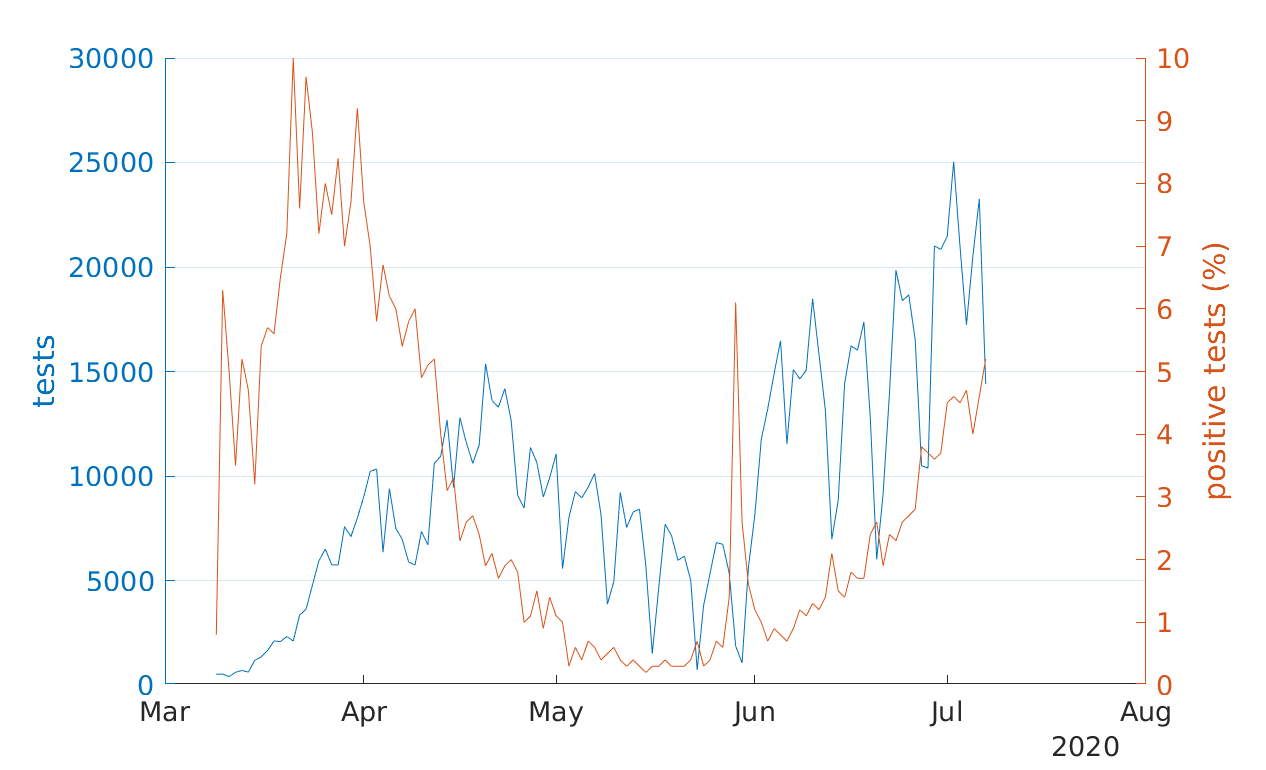
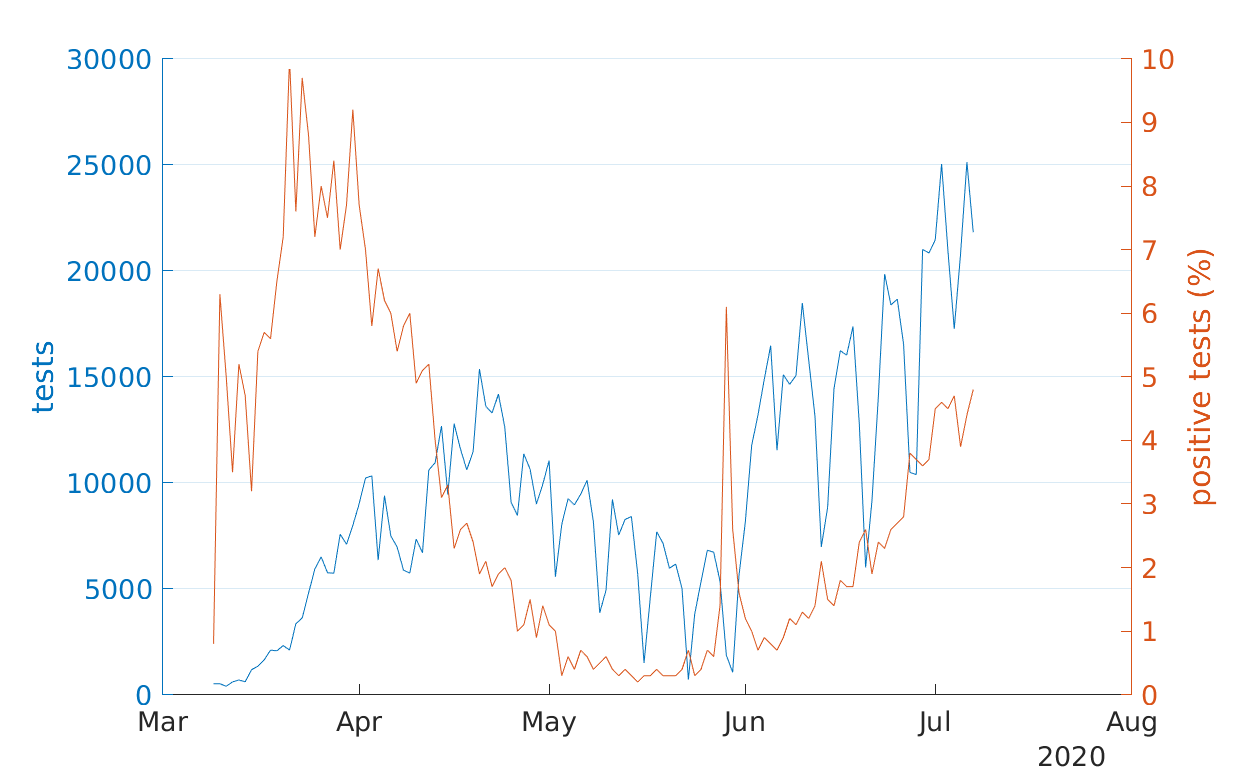
daily update

diff --git a/docs/myCountry.html b/docs/myCountry.html
@@ -121,7 +121,7 @@ body, h1,h2,h3,h4,h5,h6 {font-family: "Montserrat", sans-serif}
 <!-- Page Content -->
 <div class="w3-padding-large" id="main">
   <header class="w3-container w3-padding-32 w3-center w3-black" id="home">
-    <h1 class="w3-jumbo">מצב חולי הקורונה בישראל, 07.07.2020</h1>
+    <h1 class="w3-jumbo">מצב חולי הקורונה בישראל, 08.07.2020</h1>
     <h3 align="right"> כמה חולים במצב קשה, מונשמים ומתים מקורונה בכל יום</h3><br>
     <h4 align="right">מצב המונשמים - (בחמשת הימים האחרונים) כל יום יש כ 2 מונשמים יותר  </h4><br>
     <h4 align="right">מצב התמותה - (בחמשת הימים האחרונים) כ 4 נפטרים ליום </h4><br>
@@ -130,7 +130,7 @@ body, h1,h2,h3,h4,h5,h6 {font-family: "Montserrat", sans-serif}
   </header>
   <header class="w3-container w3-padding-32 w3-center w3-black" id="home">
     <h1 class="w3-jumbo">אחוז הבדיקות החיוביות</h1>
-    <h3 align="center">תשובה חיובית התקבלה עבור 5.2% מהתוצאות היומיות  </h3>
+    <h3 align="center">תשובה חיובית התקבלה עבור 4.8% מהתוצאות היומיות  </h3>
     <img src="percent_positive.png" alt="highest" class="w3-image" width="851">
   </header>
   <header class="w3-container w3-padding-32 w3-center w3-black" id="home">

diff --git a/docs/realigned.html b/docs/realigned.html
@@ -95,7 +95,7 @@ body, h1,h2,h3,h4,h5,h6 {font-family: "Montserrat", sans-serif}
 <div class="w3-padding-large" id="main">
   <!-- Header/Home -->
   <header class="w3-container w3-padding-32 w3-center w3-black" id="home">
-    <h1 class="w3-jumbo">Realigned curves, 06.07.2020</h1>
+    <h1 class="w3-jumbo">Realigned curves, 07.07.2020</h1>
     <h3> Deaths per million, realigned such that each country's time zero is when 1 death per million was reached. We see the top 20 countries, and we zoom in to see better the bottom half.</h3>
     <img src="realigned.png" alt="realigned" class="w3-image" width="1500">
   </header>

diff --git a/docs/highest_countries.html b/docs/highest_countries.html
@@ -95,7 +95,7 @@ body, h1,h2,h3,h4,h5,h6 {font-family: "Montserrat", sans-serif}
 <div class="w3-padding-large" id="main">
   <!-- Header/Home -->
   <header class="w3-container w3-padding-32 w3-center w3-black" id="home">
-    <h1 class="w3-jumbo">Most affected countries, 06.07.2020</h1>
+    <h1 class="w3-jumbo">Most affected countries, 07.07.2020</h1>
     <h3> Deaths, deaths per million and daily toll. Each plot shows the top 10 countries for the corresponding category.</h3>
     <img src="highest.png" alt="highest" class="w3-image" width="2851">
   </header>

diff --git a/docs/README.md b/docs/README.md
@@ -17,7 +17,7 @@ For the 10 most affected countries by different criteria click [here](highest_co
 Realigned curves for top 20 countries [here](realigned.html)<br>
 To compare Israel to other countries [here](myCountry.html)<br>
 Stay safe     ![falafel](W3CSSTemplateFiles/falafel_trans.png)
-### Last updated for 06.07.2020
+### Last updated for 07.07.2020
 ### Acknowledgements
 The COVID-19 data is taken from the John Hopkins COVID-19 database. The data can be found [here](https://github.com/CSSEGISandData/COVID-19).<br>
 Spain has a drop in total deaths (25-May-2020) because of [data cleaning](https://english.elpais.com/society/2020-05-26/spanish-health-ministry-lowers-coronavirus-death-toll-by-nearly-2000.html). Regions of spain death tolls are provided by [datadista](https://github.com/datadista/datasets/blob/master/COVID%2019/ccaa_covid19_fallecidos.csv).<br>
